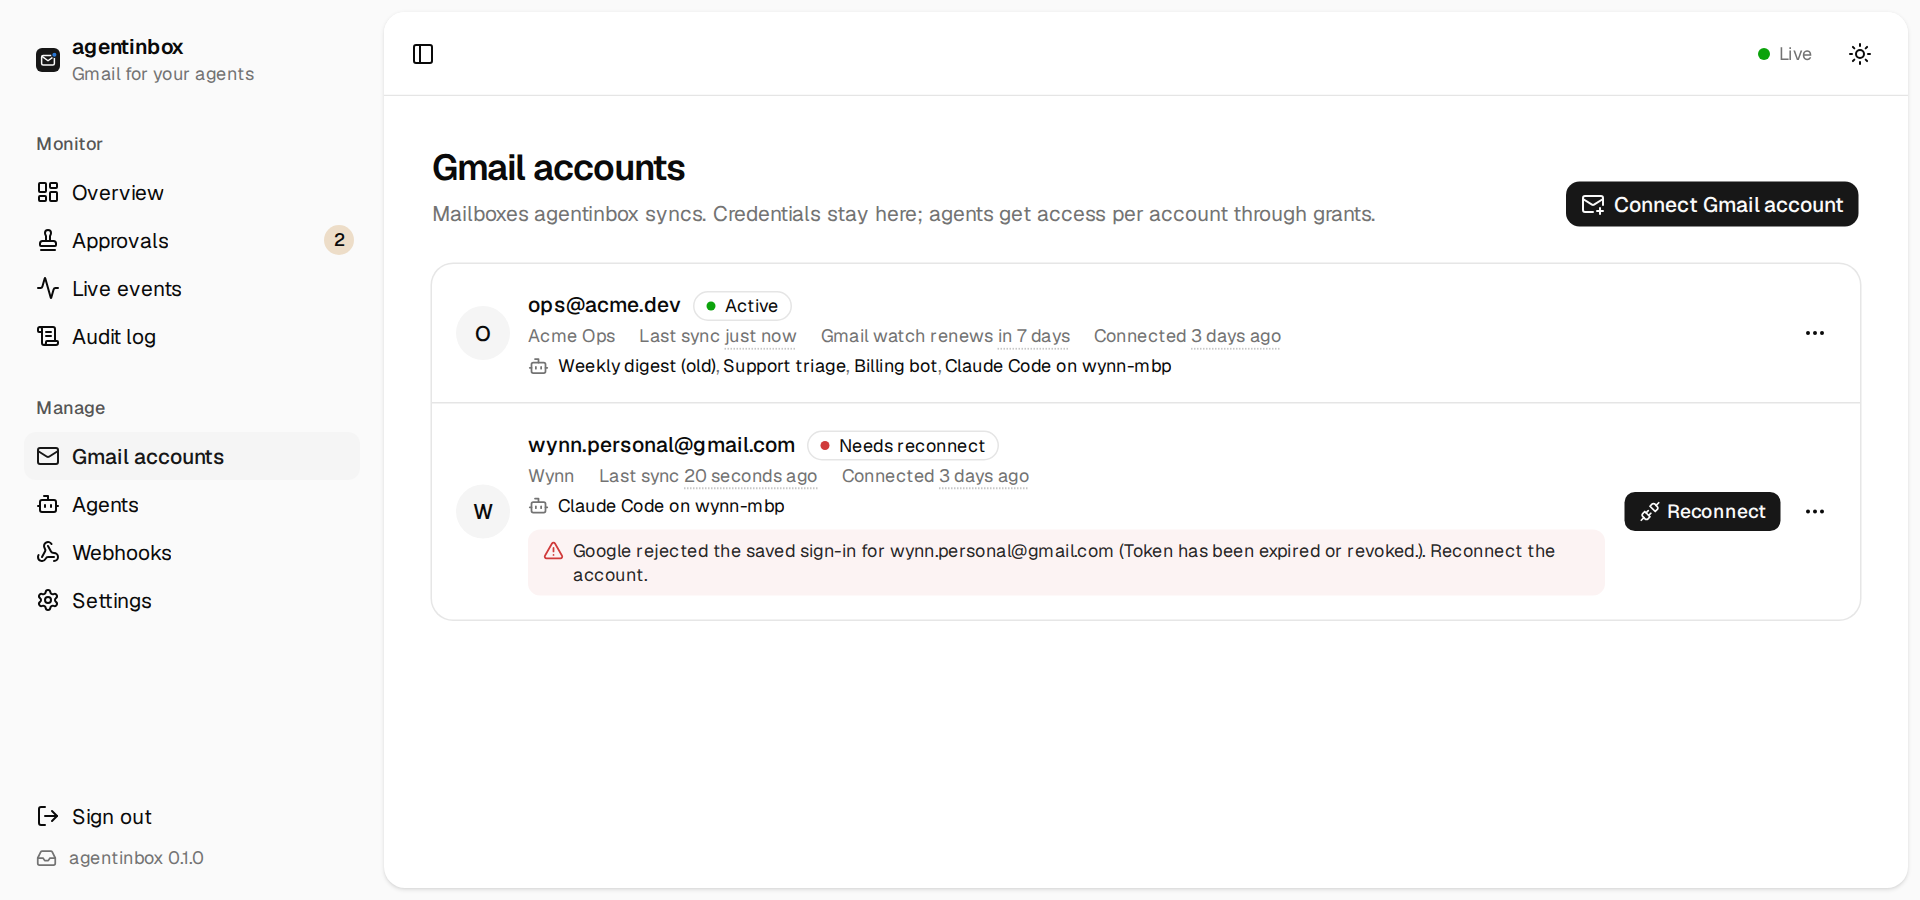
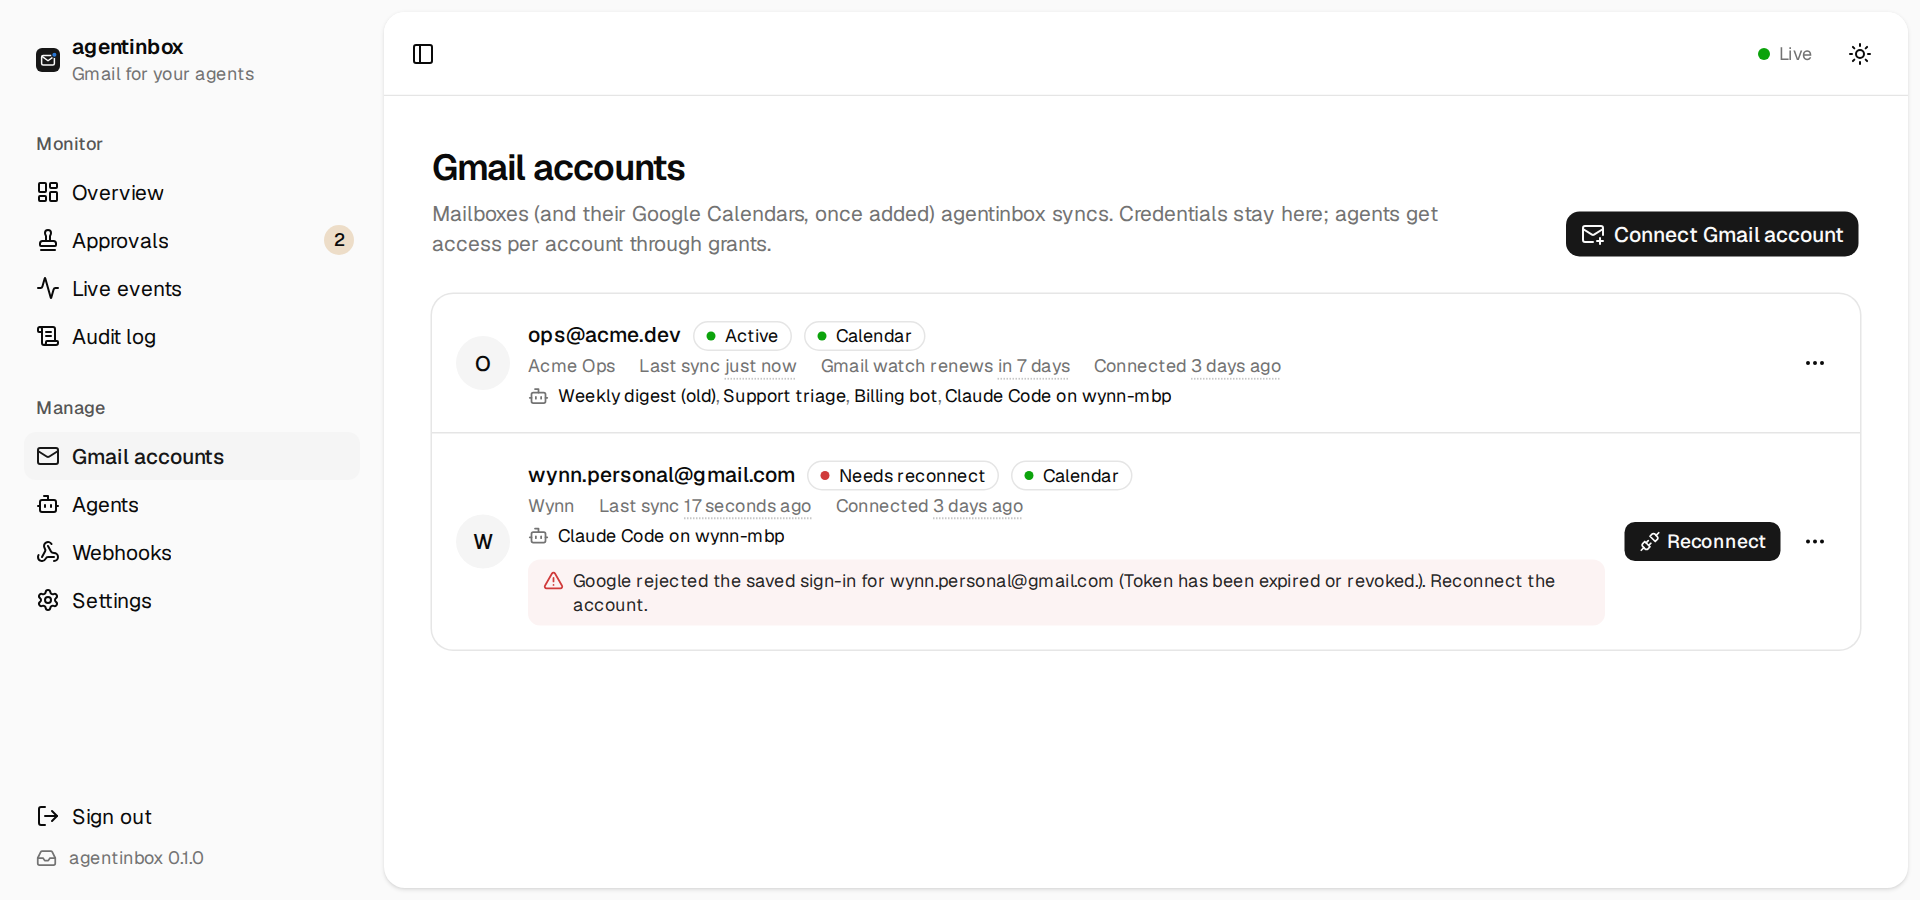
Docs screenshots: wizard steps 2, 3 and 5 and Accounts with Google Calendar
docs-shots.mjs follows the renamed accounts step (Connect Google accounts).

diff --git a/docs/screenshots/README.md b/docs/screenshots/README.md
@@ -9,7 +9,7 @@ Taken from demos against a fake Google (`scripts/demo/seed.ts`) by `scripts/demo
 | `wizard-2-project.png` | Step 2: a new Google Cloud project, created with one Cloud Shell command |
 | `wizard-3-signin-screen.png` | Step 3: the Google sign-in screen, External chosen, with the "publish the app" step |
 | `wizard-4-oauth-client.png` | Step 4: OAuth client form values, the imported client JSON, and Google's client check (all green) |
-| `wizard-5-gmail.png` | Step 5: a connected Gmail account |
+| `wizard-5-gmail.png` | Step 5: a connected Google account (Gmail and Calendar in one sign-in) |
 | `wizard-6-delivery.png` | Step 6: real-time delivery with one-click Pub/Sub (after turning on its API), or polling every 30 seconds |
 | `wizard-6-delivery-org-policy.png` | Step 6 error help: Pub/Sub blocked by an organization policy, and what to do |
 | `wizard-7-agent.png` | Step 7: a `connect` request from the agent's terminal, approved inline with its code |
@@ -17,7 +17,7 @@ Taken from demos against a fake Google (`scripts/demo/seed.ts`) by `scripts/demo
 | `overview.png` | Overview: account needing reconnect, agent asking for access, pending approval, 24 h stats and activity |
 | `overview-dark.png` | The same in dark mode |
 | `overview-mobile.png` | Overview on a phone (390 px, 2×) |
-| `accounts.png` | Gmail accounts, one needing reconnect, with the agents using each |
+| `accounts.png` | Gmail accounts with their Calendar status, one needing reconnect, with the agents using each |
 | `agents.png` | Agents list with the "Connect an agent" entry point and a pending access request |
 | `connect-agent.png` | Connect an agent: the `connect` command per tool and a waiting request to approve |
 | `agent-grant-editor.png` | Agent detail: grant editor (capabilities, thread-level label scope, send mode, recipients, caps) |
